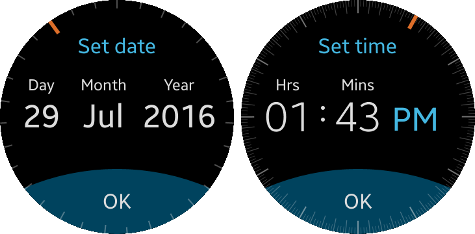
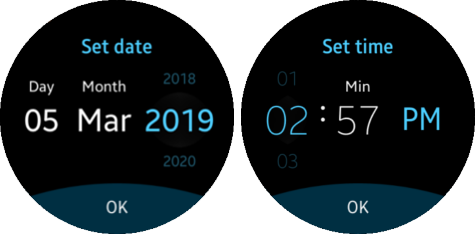
Update component-circle-datetime, component-circle-spinner and related images.
Updated doc according to changed UX.

diff --git a/docs/application/native/guides/ui/efl/wearable/component-circle-spinner.md b/docs/application/native/guides/ui/efl/wearable/component-circle-spinner.md
@@ -39,31 +39,7 @@ The circle spinner component is created with the `default` style.
 
 ## Configuring the Circle Spinner
 
-The circle spinner shows the `elm_spinner` value through a marker, which indicates the value in the round. It has internal minimum and maximum spinner values, and it calculates the minimum and maximum angles to draw the marker. The current value of the circle spinner is calculated internally as well.
-
 To handle the circle spinner value, use the `elm_spinner` functions. They are automatically synchronized with the user values. You can also use the `elm_spinner` callback functions.
-
-To customize the angle offset of the marker to not to follow the internally-calculated system value:
-
-1. Set the custom circle spinner angle value using the `eext_circle_object_spinner_angle_set()` function.
-
-   In the following example, the circle spinner angle value is set to 2.0:
-
-   ```
-   eext_circle_object_spinner_angle_set(circle_spinner, 2.0);
-   ```
-
-2. After the `eext_circle_object_spinner_angle_set()` function has been executed, the calculation formula for the angle offset is changed:
-
-   ```
-   /* Formula for calculating the default angle offset */
-   (360/ max - min) * step
-
-   /* Formula for calculating the angle offset with the new angle value */
-   (360/ max - min) * step * 2.0
-   ```
-
-You can also use the above function to define the angle offset per each rotary callback.
 
 ## Activating a Rotary Event
 
@@ -79,19 +55,11 @@ If the second parameter is `EINA_TRUE`, the circle spinner can receive rotary ev
 
 To configure the circle properties of the circle spinner:
 
-- You can modify the circle object within the circle spinner component using the various functions, such as:
+- You can disable the circle object within the circle spinner component using the following functions:
 
-  - `eext_circle_object_value_min_max_set()`
-  - `eext_circle_object_value_min_max_get()`
-  - `eext_circle_object_value_set()`
-  - `eext_circle_object_value_get()`
-
-- You can modify the circle spinner `default` item, which draws the marker.
-
-  To change the item properties, use the `eext_circle_object_item_XXX()` functions.
-
-For more information, see [Circle Object](component-circle-object.md) and the [Efl Extension Circle Object](../../../../api/wearable/latest/group__CAPI__EFL__EXTENSION__CIRCLE__OBJECT__MODULE.html) API.
+  - `eext_circle_object_disabled_set()`
+  - `eext_circle_object_disabled_get()`
 
 ## Related Information
 - Dependencies
-  - Tizen 2.3.1 and Higher for Wearable
+  - Tizen 4.0 and Higher for Wearable

diff --git a/docs/application/native/guides/ui/efl/wearable/component-circle-datetime.md b/docs/application/native/guides/ui/efl/wearable/component-circle-datetime.md
@@ -41,23 +41,11 @@ If the second parameter is `EINA_TRUE`, the circle datetime can receive rotary e
 
 To configure the circle properties of the circle datetime:
 
-- You can modify the circle object within the circle datetime component using the following functions:
+- You can disable the circle object within the circle datetime component using the following functions:
 
-  - `eext_circle_object_line_width_set()`
-  - `eext_circle_object_line_width_get()`
-  - `eext_circle_object_radius_set()`
-  - `eext_circle_object_radius_get()`
-  - `eext_circle_object_color_set()`
-  - `eext_circle_object_color_get()`
   - `eext_circle_object_disabled_set()`
   - `eext_circle_object_disabled_get()`
 
-- You can modify the circle datetime `default` item, which draws the marker.
-
-  To change the item properties, use the `eext_circle_object_item_XXX()` functions.
-
-For more information, see [Circle Object](component-circle-object.md) and the [Efl Extension Circle Object](../../../../api/wearable/latest/group__CAPI__EFL__EXTENSION__CIRCLE__OBJECT__MODULE.html) API.
-
 ## Related Information
 - Dependencies
-  - Tizen 2.3.1 and Higher for Wearable
+  - Tizen 4.0 and Higher for Wearable
